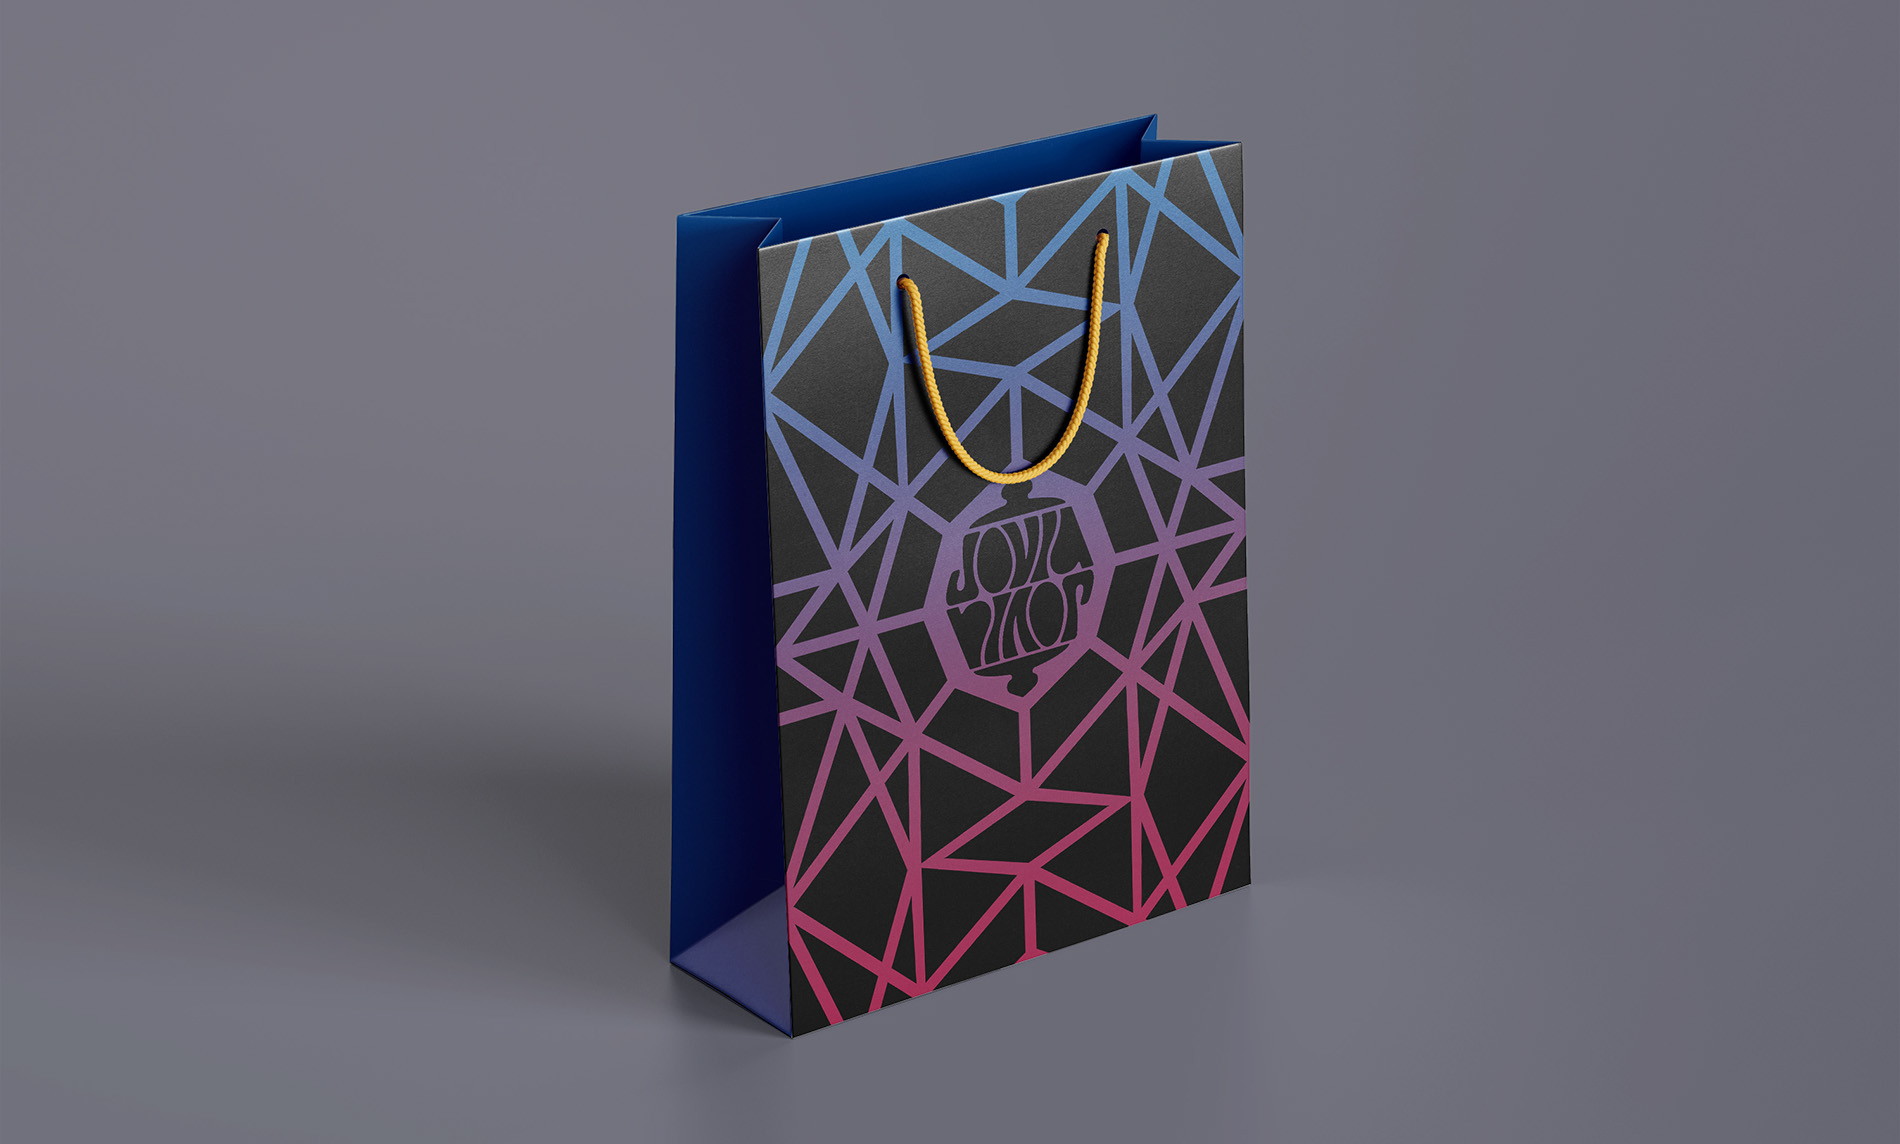
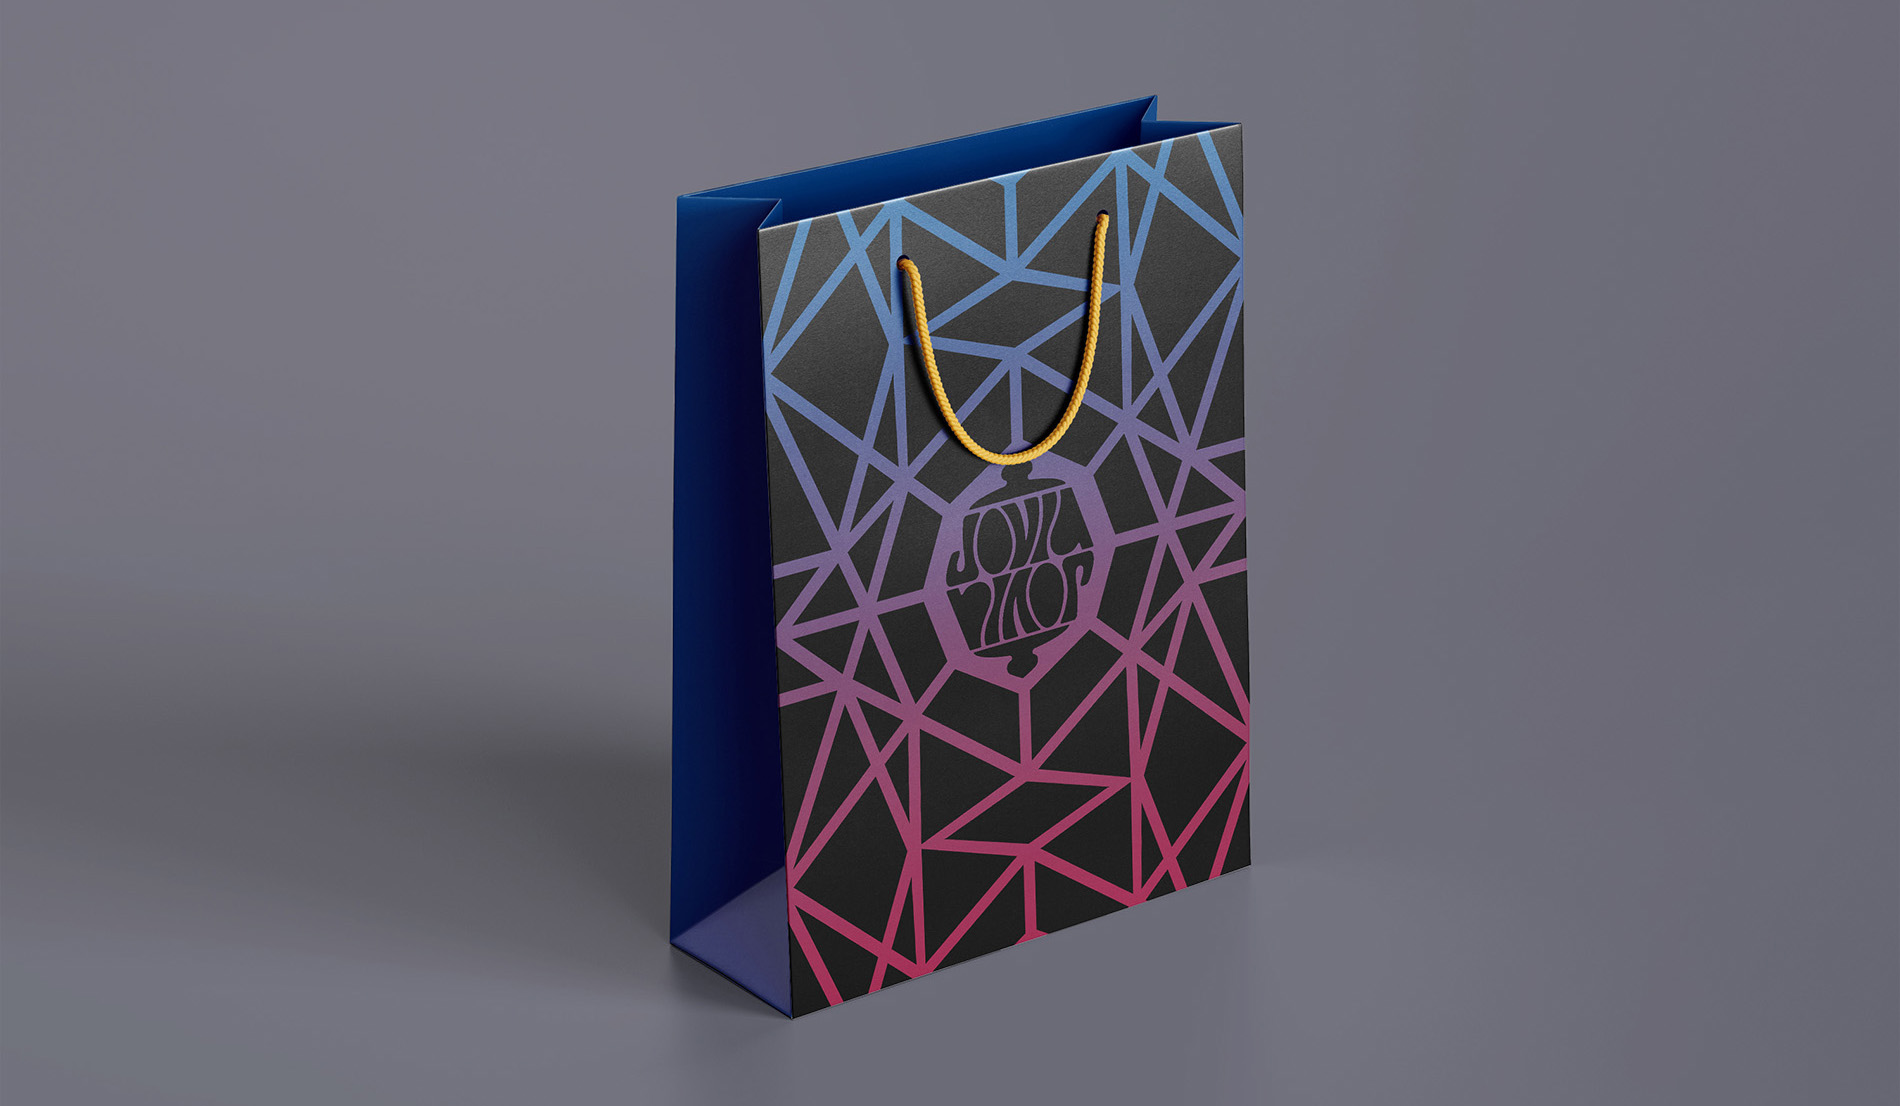
updates

Changed region(s): [[0.3416, 0.0922, 0.6521, 0.4611], [0.3726, 0.5226, 0.6521, 0.9222], [0.3416, 0.83, 0.3726, 0.8608]]

diff --git a/projects/jovia.html b/projects/jovia.html
@@ -59,6 +59,16 @@
     </div>
     <div class="project-wrapper">
       <aside class="project-aside">
+        <div class="project-image-row">
+          <div class="project-image-single">
+            <img
+              src="../assets/projects/jovia/imogen-pettyfer-visuals-design-jovia-cleaning-solutions-header.jpg"
+              width="1900"
+              height="480"
+              alt=""
+            />
+          </div>
+        </div>
         <div class="project-info">
           <p class="project-description">
             Jovia is a cleaning supply company that minimizes waste with
@@ -68,35 +78,106 @@
             refilling reusable bottles.
           </p>
         </div>
+        <div class="project-image-row">
+          <div class="project-image-single">
+            <img
+              src="../assets/projects/jovia/imogen-pettyfer-visuals-design-jovia-cleaning-solutions-colour-color-pattern.jpg"
+              width="1900"
+              height="679"
+              alt=""
+            />
+          </div>
+        </div>
+        <ul class="project-details-row">
+          <li class="project-details-item-left">
+            <h3 class="project-information-heading">Problem</h3>
+            <p class="project-information">
+              Within our communities, we are opting for more sustainable
+              solutions. in the cleaning product world there have been changes
+              to refill depots and dissolvable sheets and tablets, but what
+              about the containers that hold the cleaning solvents? Not to
+              mention how plastic looks on the counter. Not exactly the most
+              appealing.
+            </p>
+          </li>
+          <li class="project-details-item-right">
+            <h3 class="project-information-heading">Solution</h3>
+            <p class="project-information">
+              Jovia seeks to engage their consumers with combining aesthetics
+              and sustainability in a cleaning product. Additionally, Jovia is
+              focused on proving the sustainability with a one-year warranty on
+              all their glass products. This will strengthen their unique
+              selling point and help effectively convey its brand values and
+              advantages with their products.
+            </p>
+          </li>
+        </ul>
+        <div class="project-image-row">
+          <div class="project-image-double">
+            <img
+              src="../assets/projects/jovia/imogen-pettyfer-visuals-design-jovia-cleaning-solutions-paper-shopping-bag.jpg"
+              width="1900"
+              height="1106"
+              alt=""
+            />
+          </div>
+          <div class="project-image-double">
+            <img
+              src="../assets/projects/jovia/imogen-pettyfer-visuals-design-jovia-cleaning-solutions-storefront-sign.jpg"
+              width="1900"
+              height="1106"
+              alt=""
+            />
+          </div>
+        </div>
+        <div class="project-image-row">
+          <div class="project-image-single">
+            <img
+              src="../assets/projects/jovia/imogen-pettyfer-visuals-design-jovia-cleaning-solutions-packaging.gif"
+              width="1900"
+              height="1389"
+              alt=""
+            />
+          </div>
+        </div>
+        <div class="project-image-row">
+          <div class="project-image-triple">
+            <img
+              src="../assets/projects/jovia/imogen-pettyfer-visuals-design-jovia-cleaning-solutions-all-purpose-cleaner-packaging-flat.jpg"
+              width="1500"
+              height="2250"
+              alt=""
+            />
+          </div>
+          <div class="project-image-triple">
+            <img
+              src="../assets/projects/jovia/imogen-pettyfer-visuals-design-jovia-cleaning-solutions-dish-washing-packaging-flat.jpg"
+              width="1500"
+              height="2250"
+              alt=""
+            />
+          </div>
+          <div class="project-image-triple">
+            <img
+              src="../assets/projects/jovia/imogen-pettyfer-visuals-design-jovia-cleaning-solutions-glass-cleaner-packaging-flat.jpg"
+              width="1500"
+              height="2250"
+              alt=""
+            />
+          </div>
+        </div>
+        <div class="project-image-row">
+          <div class="project-image-single">
+            <img
+              src="../assets/projects/jovia/imogen-pettyfer-visuals-design-jovia-cleaning-solutions-glass-spray-bottle-mockups.jpg"
+              width="1900"
+              height="1267"
+              alt=""
+            />
+          </div>
+        </div>
       </aside>
     </div>
-    <div class="project-image-row">
-      <div class="project-image-single">
-        <img src="" width="" height="" alt="" />
-      </div>
-    </div>
-
-    <div class="project-image-row">
-      <div class="project-image-double">
-        <img src="" width="" height="" alt="" />
-      </div>
-      <div class="project-image-double">
-        <img src="" width="" height="" alt="" />
-      </div>
-    </div>
-
-    <div class="project-image-row">
-      <div class="project-image-triple">
-        <img src="" width="" height="" alt="" />
-      </div>
-      <div class="project-image-triple">
-        <img src="" width="" height="" alt="" />
-      </div>
-      <div class="project-image-triple">
-        <img src="" width="" height="" alt="" />
-      </div>
-    </div>
-
     <main class="project-details">
       <div class="project-button-wrapper">
         <ul class="project-navigation">

diff --git a/about.html b/about.html
@@ -26,11 +26,12 @@
   <body class="about-page">
     <header class="hero-header">
       <ul class="branding-navigation">
-        <li class="logo">
+        <li class="long-logo">
           <a href="index.html">
             <img
-              src="../assets/branding/imogen-pettyfer-logo.png"
-              class="logo"
+              src="assets/branding/imogen-pettyfer-visuals-main-logo.png"
+              width="1500"
+              height="523"
               alt="Imogen Pettyfer Visuals"
             />
           </a>

diff --git a/index.html b/index.html
@@ -28,10 +28,10 @@
     <section class="hero">
       <header class="hero-header">
         <ul class="branding-navigation">
-          <li class="logo">
+          <li class="long-logo">
             <a href="index.html">
               <img
-                src="assets/branding/imogen-pettyfer-visuals-main-logo-no-text.png"
+                src="assets/branding/imogen-pettyfer-visuals-main-logo.png"
                 width="1500"
                 height="523"
                 alt="Imogen Pettyfer Logo"

diff --git a/projects/divinity.html b/projects/divinity.html
@@ -54,7 +54,12 @@
 
     <div class="project-image-row">
       <div class="project-image-single">
-        <img src="" width="1900" height="480" alt="" />
+        <img
+          src="../assets/projects/divinity/imogen-pettyfer-visuals-design-divinity-cosmetics-header-celestial-skincare-solution-packaging-design-project-greek-gods-goddesses.jpg"
+          width="1900"
+          height="480"
+          alt=""
+        />
       </div>
     </div>
     <div class="project-wrapper">

diff --git a/projects/traid.html b/projects/traid.html
@@ -194,7 +194,12 @@
           />
         </div>
         <div class="project-image-triple">
-          <img src="" width="1500" height="1500" alt="" />
+          <img
+            src="../assets/projects/traid/imogen-pettyfer-visuals-design-traid-apparel-social-media-ad-mock-up.gif"
+            width="1500"
+            height="1500"
+            alt=""
+          />
         </div>
         <div class="project-image-triple">
           <img
